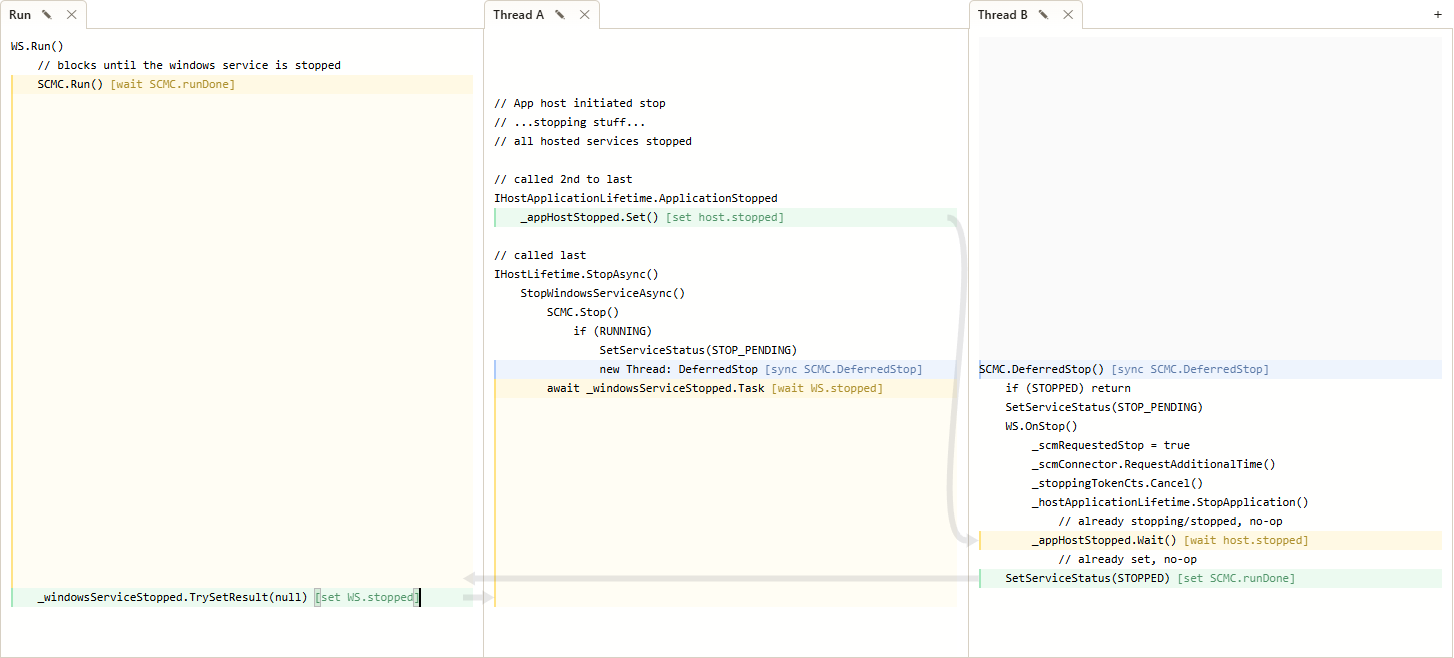
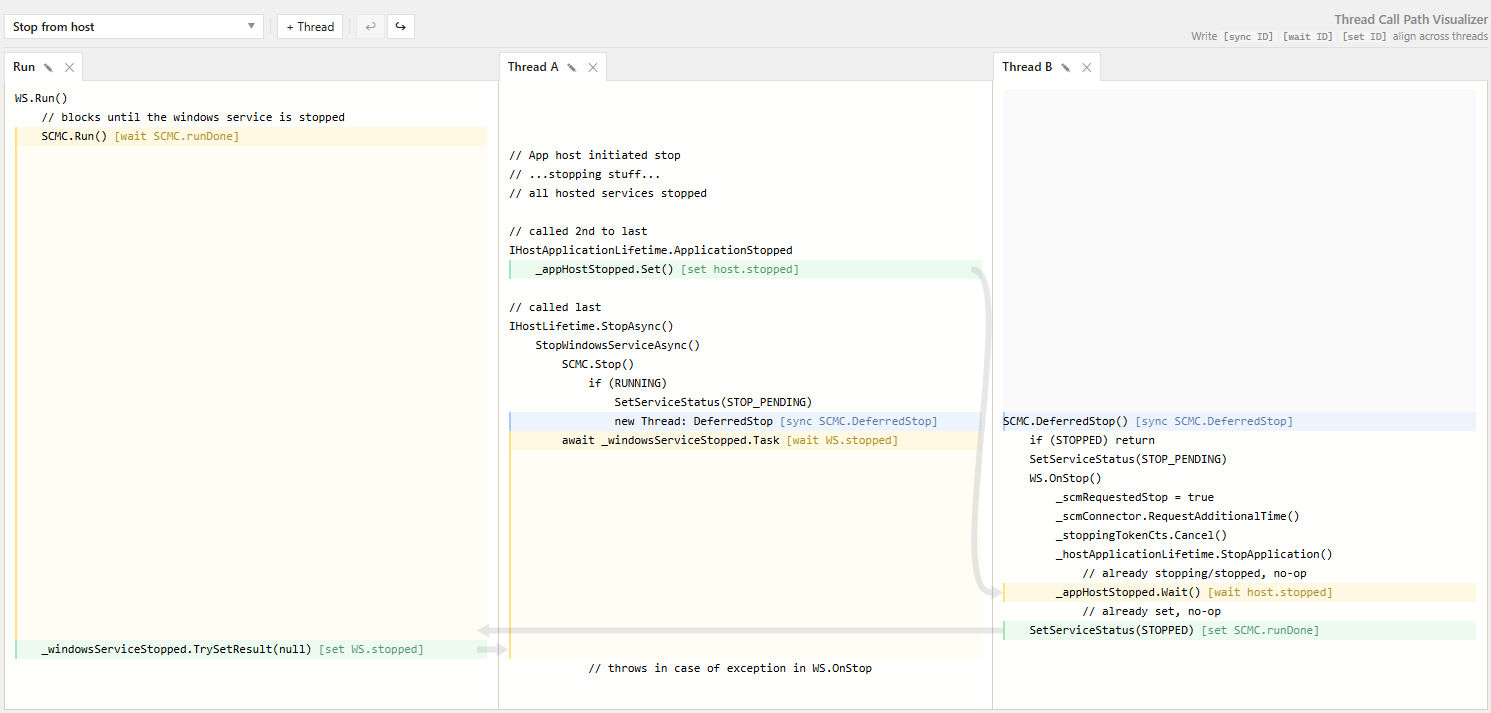
update readme

diff --git a/src/components/ThreadToolbar.tsx b/src/components/ThreadToolbar.tsx
@@ -26,6 +26,15 @@ const ToolbarTitle = styled.h1`
 	font-size: 0.8rem;
 	font-weight: 600;
 	color: ${palette.mutedText};
+
+	a {
+		color: inherit;
+		text-decoration: none;
+
+		&:hover {
+			text-decoration: underline;
+		}
+	}
 `;
 
 const ToolbarDescription = styled.p`
@@ -136,7 +145,11 @@ export function ThreadToolbar({
 			</ToolbarActions>
 
 			<ToolbarIntro>
-				<ToolbarTitle>Thread Call Path Visualizer</ToolbarTitle>
+				<ToolbarTitle>
+					<a href="https://github.com/Qtax/thread-visualizer" target="_blank">
+						Thread Call Path Visualizer
+					</a>
+				</ToolbarTitle>
 				<ToolbarDescription>
 					Write <InlineCode>[sync ID]</InlineCode> <InlineCode>[wait ID]</InlineCode>{" "}
 					<InlineCode>[set ID]</InlineCode> align across threads

diff --git a/README.md b/README.md
@@ -11,10 +11,13 @@ https://qtax.github.io/thread-visualizer
 
 ## Features
 
-- Edit each thread side by side as pseudo-code or real code.
-- Align matching `[sync ID]`, `[wait ID]`, and `[set ID]` markers across threads.
-- Add, reorder, rename and remove threads.
-- Save and load thread states.
+- Side-by-side thread code editors.
+- Align `[sync ID]`, `[wait ID]`, and `[set ID]` markers across threads with visual connectors.
+- Add, reorder, rename, and remove threads.
+- Workspaces - named groups of threads with easy switching.
+- Unified undo/redo with Ctrl+Z/Y (persisted per workspace).
+- Import/export workspaces.
+- Auto-saves to localStorage.
 
 
 ## Development
